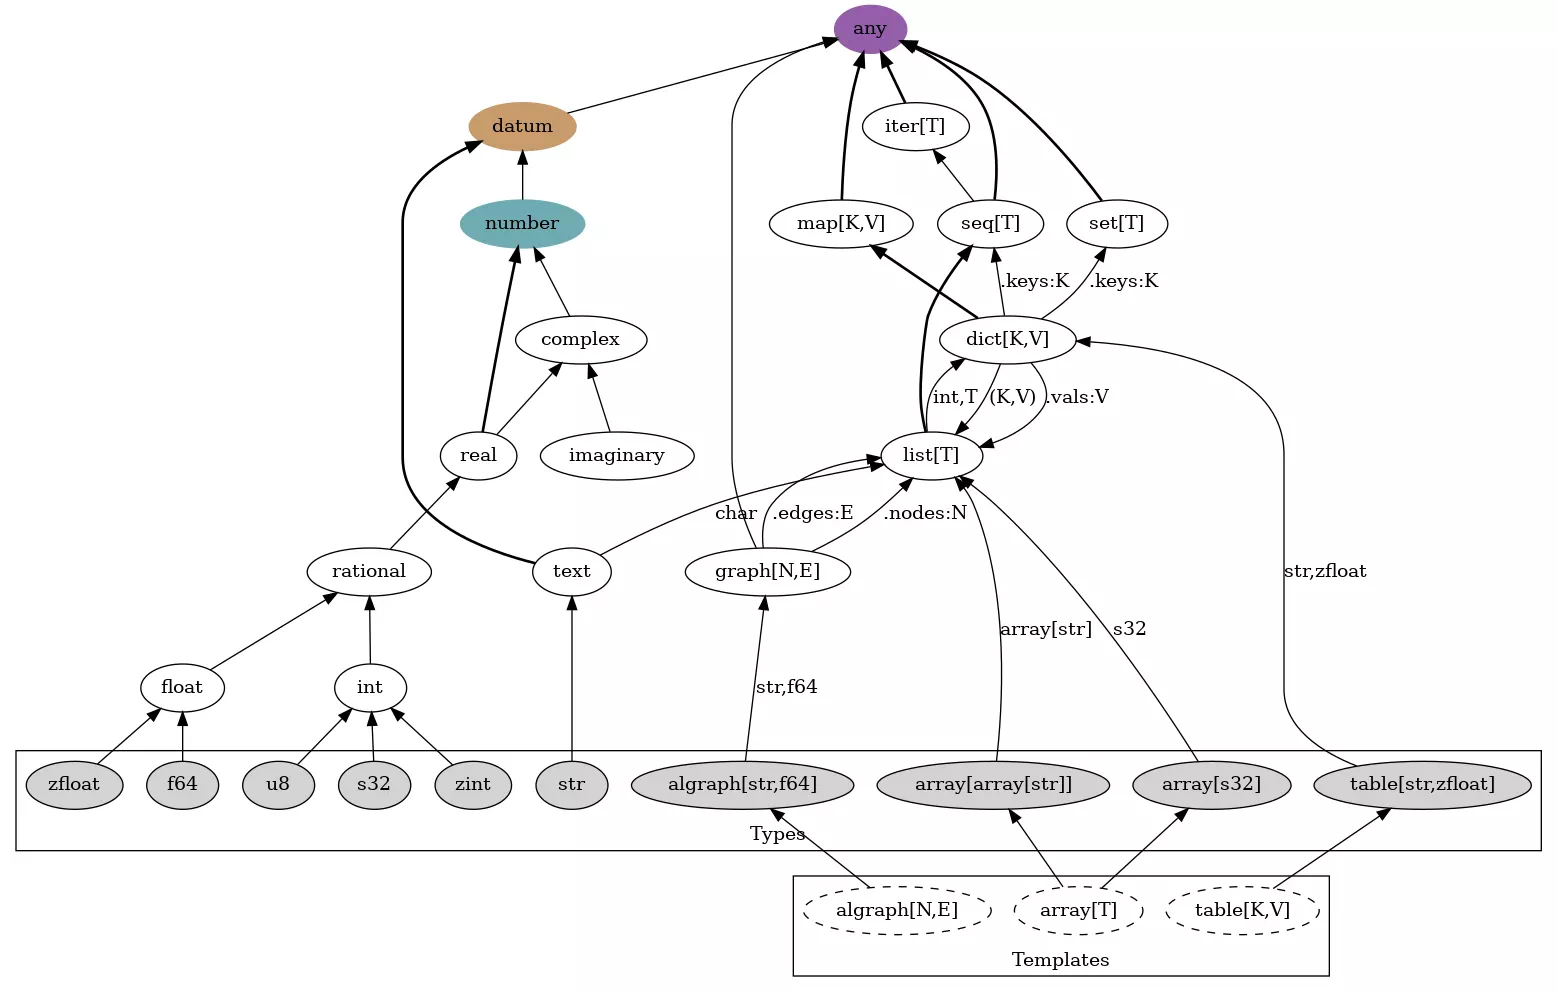
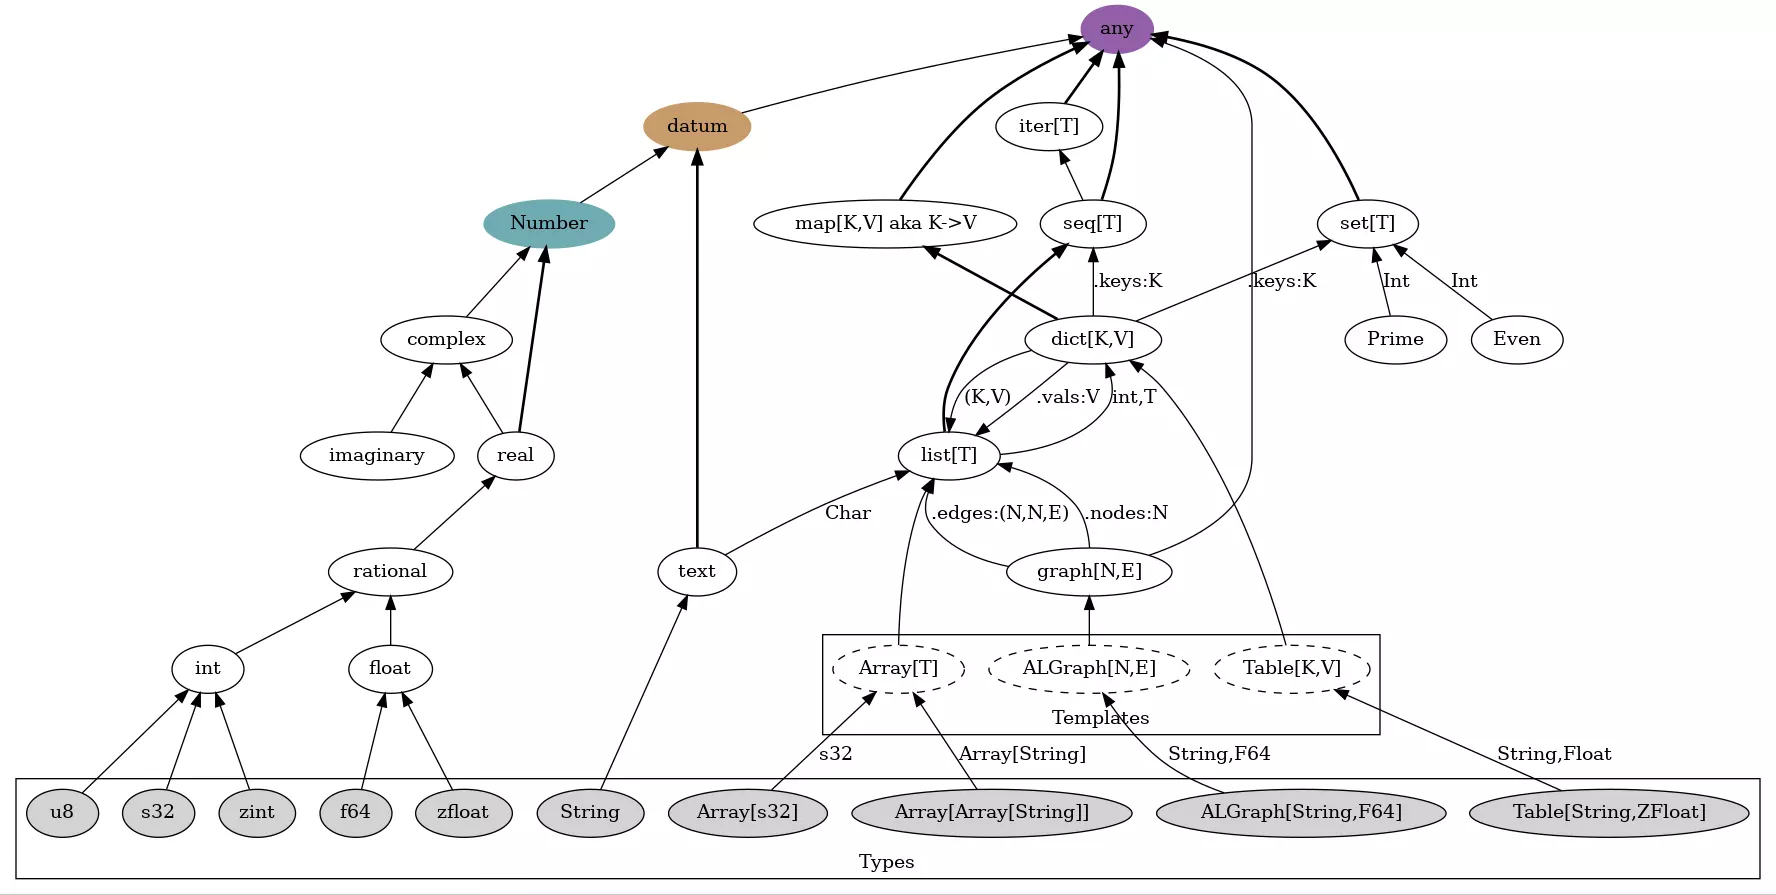
type post

diff --git a/css/main.css b/css/main.css
@@ -37,6 +37,8 @@ html[data-theme='chalkboard'] {
   --col-back: #0e0e0e;
   /* what color should be the background for main content? */
   --col-back-main: #2a2a2a;
+  /* what color should be the sub background on top of main*/
+  --col-back-sub: #3a3a3a;
   /* what color should borders around images/figures be (borderA should blend in with the theme) */
   --col-border-fig: #eeeeee88;
   /* what color should text that matches the theme be? (for example, a black theme should have textA as black) */
@@ -77,7 +79,7 @@ body {
   /* text config */
   font-family: var(--font);
   color: var(--col-text);
-  font-size: 20px;
+  font-size: 22px;
   tab-size: 4;
 }
 
@@ -91,22 +93,37 @@ h1 a, h2 a, h3 a, h4 a, h5 a, h6 a {
   text-decoration: none;
 }
 
-h2::before {
-  content: '# ';
-}
-h3::before {
-  content: '## ';
-}
-h4::before {
-  content: '### ';
-}
-
 a:link {
   color: var(--col-link);
 }
 
 a:visited {
   color: var(--col-link);
+}
+
+
+
+
+blockquote {
+  
+  background: var(--col-back-sub);
+  border-left: 10px solid var(--col-border-fig);
+  font-size: 1.2em;
+  margin: 1.5em 10px;
+  padding: 0.5em 10px;
+  quotes: "\201C""\201D""\2018""\2019";
+}
+blockquote:before {
+  /*color: #ccc;*/
+  content: open-quote;
+  font-size: 4em;
+  line-height: 0.1em;
+  margin-right: 0.25em;
+  vertical-align: -0.4em;
+}
+
+blockquote p {
+  margin-block-start: 0.5em;
 }
 
 img {
@@ -130,6 +147,10 @@ img {
 .img-L {
   max-width: 94%;
   max-height: 76vh;
+}
+
+.bk-inv {
+  background-color: #fff;
 }
 /* TODO: table formatting */
 
@@ -238,7 +259,7 @@ footer a:hover {
 
 
 li {
-  padding-bottom: 12px;
+  padding-bottom: 8px;
 }
 
 /* parent of parent of main */
@@ -257,7 +278,7 @@ li {
 /* for page main content */
 
 .main {
-  padding: 1.1em;
+  padding: 1.0em 2.2em;
   margin-top: 1em;
   border-radius: 14px;
   background-color: var(--col-back-main);

diff --git a/_includes/head.html b/_includes/head.html
@@ -36,6 +36,11 @@
     <!-- Site CSS -->
     <link rel='stylesheet' href='/css/main.css' type='text/css'>
 
+    {% if layout == 'post' %}
+
+    {% endif %}
+
+
     <!-- Site JS -->
     <script src="/js/main.js"></script>
 

diff --git a/_layouts/post.html b/_layouts/post.html
@@ -2,6 +2,8 @@
 layout: page
 ---
 
+<link rel='stylesheet' href='/css/post.css' type='text/css'>
+
 <!-- Series TOC -->
 {% if page.series %}
     <aside class="series">

diff --git a/css/post.css b/css/post.css
@@ -1,0 +1,11 @@
+h2::before {
+    content: '# ';
+}
+
+h3::before {
+    content: '## ';
+}
+
+h4::before {
+    content: '### ';
+}

diff --git a/_posts/2021-10-26-K0001-idea-based-programming.md b/_posts/2021-10-26-K0001-idea-based-programming.md
@@ -9,31 +9,70 @@ series: types
 thumb: /files/src/K0001/types_all.dot.webp
 ---
 
-buckle up! we're about to dive into the world of math, programming, and language. particularly, how they interact and how they can be used in Kata via Idea Based Programming (aka Platonic Typing). i'm going to also explain some other type systems, and some problems that arise from using them.
-
+buckle up! we're about to dive into the world of math, programming, and language. particularly, how they interact and how they can be used in Kata via Idea Based Programming (aka Platonic Typing). i'm going to also explain some other type systems, and some issues that arise when using them.
 <!--more-->
+
+
+## First, An Aside
+
+let me start by introducing an excerpt from a dialogue between Parmenides and Socrates:
+
+> **Parmenides**: if you say that things participate in ideas, must you not say either that everything is made up of thoughts, and that all things think; or that there are thoughts but have no thought?
+>
+> **Socrates**: in my opinion, the ideas are patterns fixed in nature, and other things are like them, and resemblances of them -- what is meant by the participation of other things in the ideas, is really assimilation to them.
+>
+> -- in [*Parmenides*](https://en.wikipedia.org/wiki/Parmenides_(dialogue)) by [Plato](https://en.wikipedia.org/wiki/Plato). 
+
+
+
+try to keep this in mind, as we'll revisit this later in the post. specifically, try to apply it to programming languages, concepts, and objects.
+
+<!--
+
+> par: And will not the something which is apprehended as one and the same in all, be an idea?
+> soc: Yes
+
+> soc: Nay, but the idea may be like the day which is one and the same in many places at once, and yet continuous with itself; in this way each idea may be one; and the same in all at the same time.
+> par: I like your way, Socrates, of making one in many places at once. You mean to say, that if I were to spread out a sail and cover a number of men, there would be one whole including many-is not that your meaning?
+
+
+> soc: ... but may not the ideas be thoughts only, and have no proper existence except in our minds, Parmenides? For in that case each idea may still be one, and not experience this infinite multiplication.
+
+> soc: in my opinion, the ideas are patterns fixed in nature, and other things are like them, and resemblances of them -- what is meant by the participation of other things in the ideas, is really assimilation to them.
+
+-->
+
 
 ## Type Systems & Semantics
 
-when we talk about programming, we (primarily) talk about ideas. for example, when we program on whiteboards using [psuedocode](https://en.wikipedia.org/wiki/Pseudocode), loose definitions of types and functions are used. we don't care about the actual implementation, we care about the semantics of the code (i.e. the underlying transformations between values). 
+when we talk about programming, we (primarily) talk about concepts. for example, when we program on whiteboards using [psuedocode](https://en.wikipedia.org/wiki/Pseudocode), loose definitions of types and functions are used. we don't care about the actual implementation, we care about the semantics of the code (i.e. the underlying processes and algorithms). we could say that we are working in a **top down** fashion.
 
-i've noticed that whiteboard programming is the best way to convey ideas to colleagues when we're working on a difficult problem, because all the "noise" in most programming languages is gone. when you understand a whiteboard full of psuedocode, the distance between math, computer science, and normal language (in our case, English) is reduced by an order of magnitude. 
+however, when we're programming in a language, we're usually talking about the actual implementation. we typically tie functionality directly to the name we choose for a given concept. in this case, programmers are typically working in a **bottom up** fashion. for example, most object-oriented type systems with inheritance are bottom up, since we start with nothing and build up to more specific types.
 
+i've noticed that whiteboard programming is the best way to convey ideas to colleagues when we're working on a difficult problem, because all the "noise" in most programming languages is gone. when you understand a whiteboard full of psuedocode, the distance between math, computer science, and normal language (in our case, English) is reduced by (at least) an order of magnitude. as a result it takes less time to:
 
+  * write/describe an algorithm
+  * understand psuedocode written by someone else
 
-### Classic Approaches
+if only there was some way to succinctly represent that in a way that would actually run... let's see how most programming languages reason about these concepts:
 
-with most programming languages, there is a coupling between the abstract ideas, and the datastructures used to implement them. for example, in C the abstract idea of a `list` of some type `T` cannot be expressed - a concrete data structure must be used. this is problematic for a few reasons:
+### C, C++, C# (3 generations of bottom-up design)
 
-  * there is no default implementation available, so a library or custom implementation must be used
+with most programming languages, there is a coupling between the abstract ideas, and the datastructures used to implement them. for example, in C the abstract idea of a `list` of some type `T` cannot be expressed -- a specific concrete data structure must be used. this is problematic for a few reasons:
+
+  * there is no default implementation available, so a library or custom implementation must be used. any particular implementation may:
+    * be slow/inefficient for some types or all, or for different hardware
+    * have bugs present
+    * be incompatible with other implementations
+    * choose odd/non-standard names which is less readable, invites bugs, and slows development
   * switching between different implementations is difficult
-  * a particular implementation may be inefficient on different hardware
   * the idea is not composable (i.e. having a list of lists is difficult...)
 
-of course, C is a very old language and is not meant to be a very high level language. even C++ fixes many of these problems with its templating system although, arguably, it creates many more:
+of course, C is an old language and is not meant to be a very high level language. even C++ fixes many of these problems with its templating system although, arguably, it creates many more:
 
   * there is still the problem of switching between different implementations (i.e. if you use `std::vector<T>` everywhere it is still a specific implementation)
-  * since the template system is ad-hoc, it is very unnatural to use. you have to jump through hoops that aren't intuitive or fundamental to the operation you're trying to do
+  * since the template system is ad-hoc, it is very unnatural to use and has odd syntax. you have to jump through hoops that aren't intuitive or fundamental to the operation you're trying to do
+    * this also results in indecipherable error messages, slowing development
   * for more complex types/models, multiple inheritance is required
     * this can degrade performance, as it requires virtual method dispatching
 
@@ -43,8 +82,9 @@ this means that:
 
   * the type hierarchy is a tree (as opposed to C++, which is a directed acyclic graph (DAG))
   * the interface hierarchy is a DAG (i.e. there can't be a cycle of interfaces)
+    * don't ask me how i found out...
 
-as a result, no multiple inheritance dispatch is required, as concrete types always have a single dispatch table (this means it can be more efficient at runtime)
+as a result, no multiple inheritance dispatch is required, so concrete types always have a single dispatch table (this means it can be more efficient at runtime)
 
 so, we're done, right? surely a DAG interface hierarchy on top of a tree type hierarchy is suitable for a modern programming language...
 
@@ -70,11 +110,11 @@ so, although Lua is very fast, it can't really do everything you'd want out of a
 
 a language that stands out is [Julia](https://julialang.org/). although Julia is a high level dynamic language it can be just as fast as native code, and is being used for High Performance Computing (HPC) and Data Science (check their [benchmarks](https://julialang.org/benchmarks/)). 
 
+![Julia benchmarks](https://julialang.org/assets/benchmarks/benchmarks.svg){: .img-M .bk-inv }
+
 what?? i was **just** told that performance comes from static type systems! how is Julia achieving this performance while allowing for dynamic type systems?
 
-![Julia benchmarks](https://julialang.org/assets/benchmarks/benchmarks.svg){: .img-S }
-
-the answer is basically that Julia has a very unique [type system](https://docs.julialang.org/en/v1/manual/types/) that is exploited by its runtime:
+the answer is basically that Julia has a [unique type system](https://docs.julialang.org/en/v1/manual/types/) that is exploited by its runtime:
 
   * most types are abstract, and cannot be instantiated directly
   * types that can be instantiated are called concrete types, and all concrete types are final/[sealed (C#)](https://docs.microsoft.com/en-us/dotnet/csharp/language-reference/keywords/sealed) (which means no subtypes can be created)
@@ -89,7 +129,19 @@ now, we must **really** be done... right?
 
 ### Kata's Approach
 
-Kata's approach to types is different than 
+Kata's approach to types is different than all the aforementioned languages, although it is most similar to Julia's:
+
+  * most types are abstract, and cannot be instantiated directly
+  * concrete types that can be instantiated are final/sealed, thus they never have concrete supertypes (only abstract ones)
+  * a large graph of mathematical concepts and interfaces is used to define the type system
+
+however, 
+
+
+  * Kata's abstract types are called "ideas", and can be thought of as the concept alone
+  * Kata's abstract types can be mutually recursive (i.e. a type can be a supertype of itself)
+    * there can be arbitrary cycles, self-loops, and multiple inheritance within the abstract world
+
 
 ![type graph (all)](/files/src/K0001/types_all.dot.webp){: .img-L }
 
